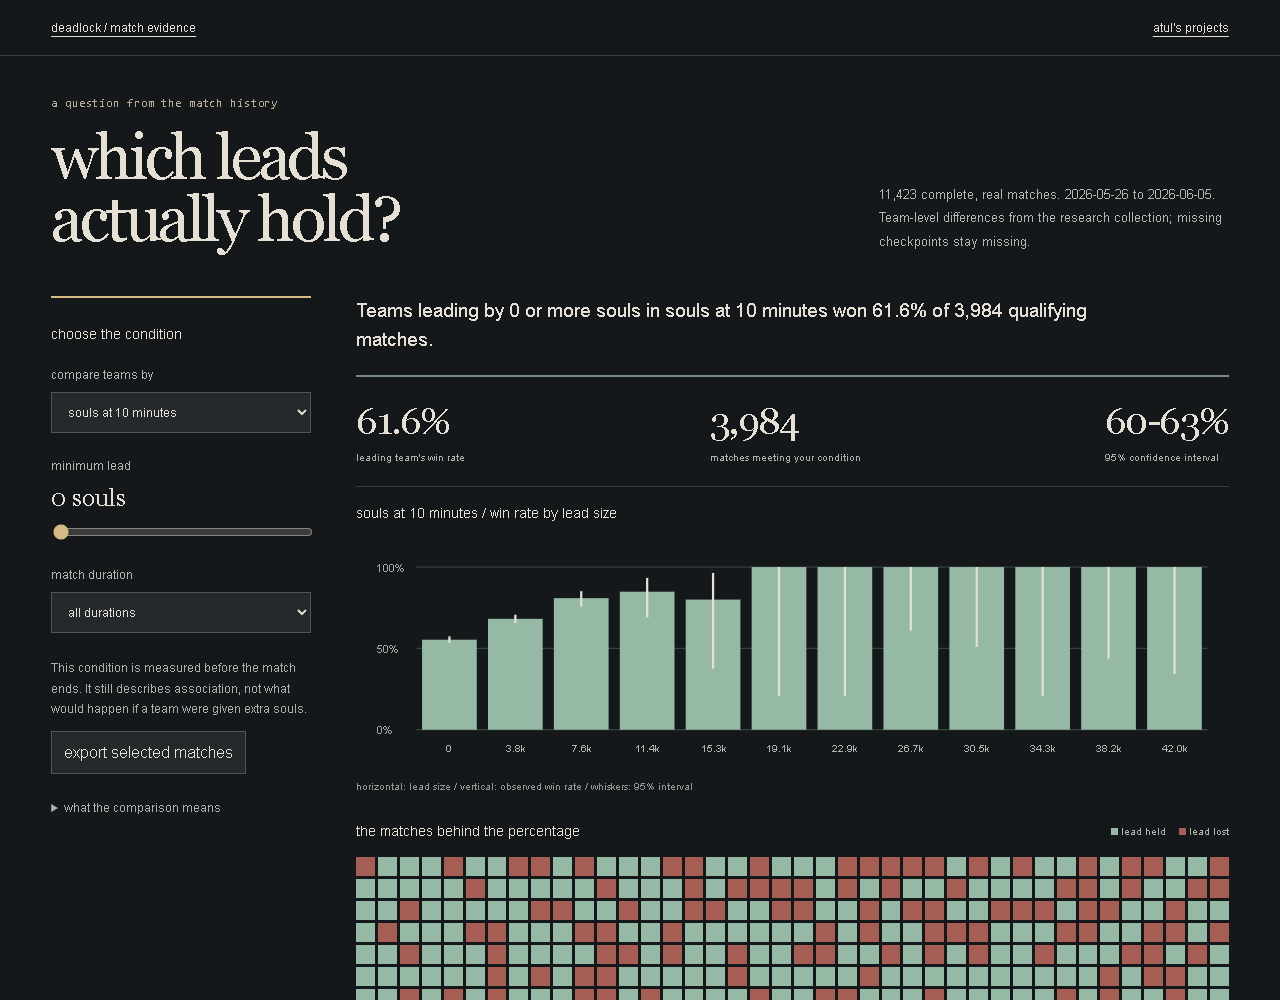
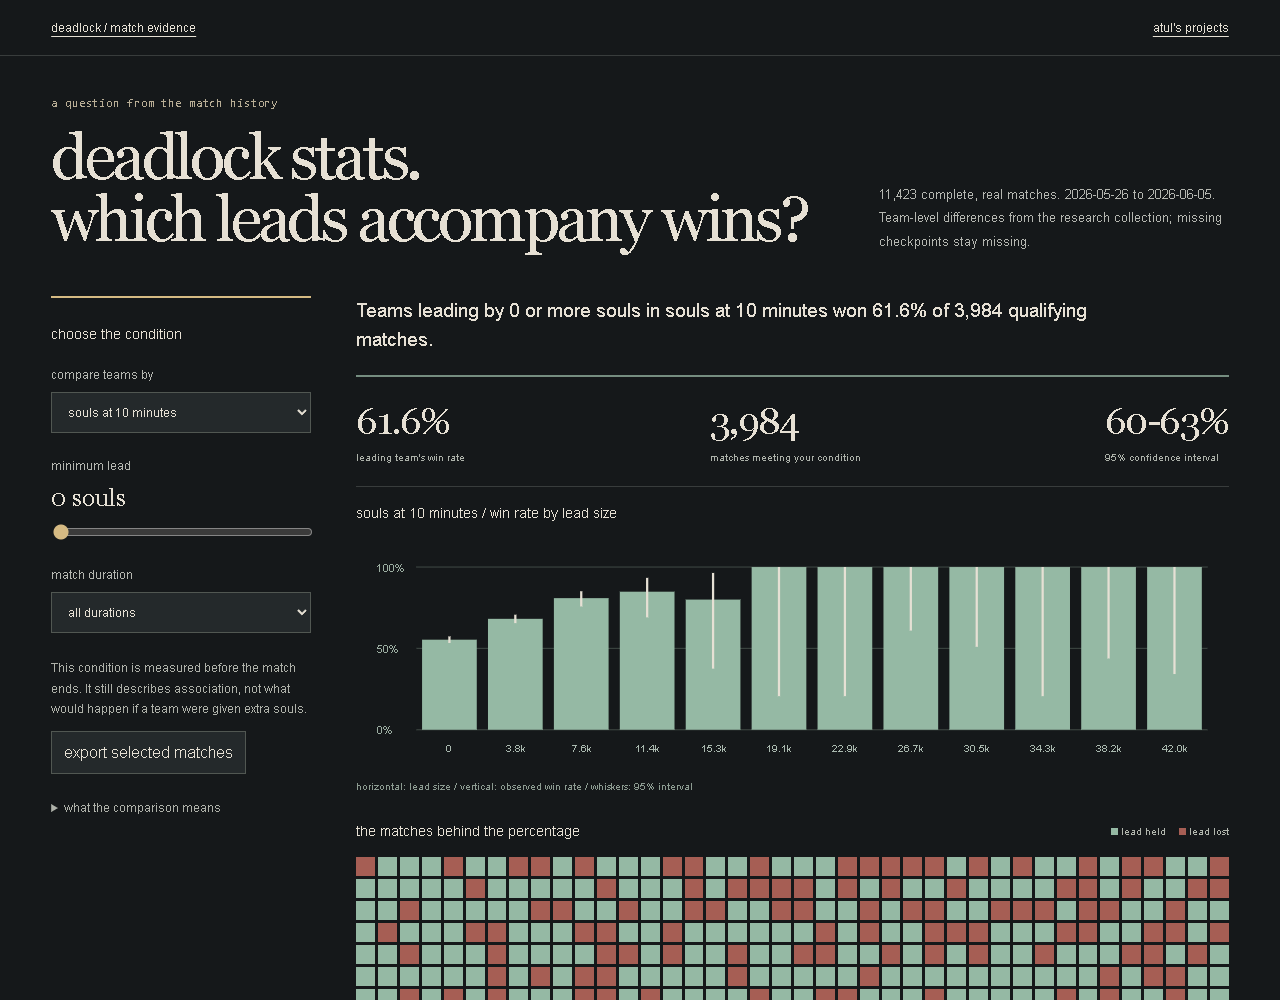
Make the project purpose and primary browsing workflow easier to find

Changed region(s): [[0.0312, 0.124, 0.625, 0.248]]

diff --git a/examples/portfolio/index.html b/examples/portfolio/index.html
@@ -18,7 +18,7 @@
             <div class="heading">
                 <div>
                     <p class="eyebrow">a question from the match history</p>
-                    <h1>which leads<br />actually hold?</h1>
+                    <h1>deadlock stats.<br />which leads accompany wins?</h1>
                 </div>
                 <p class="scope" id="scope">loading the collected matches...</p>
             </div>
